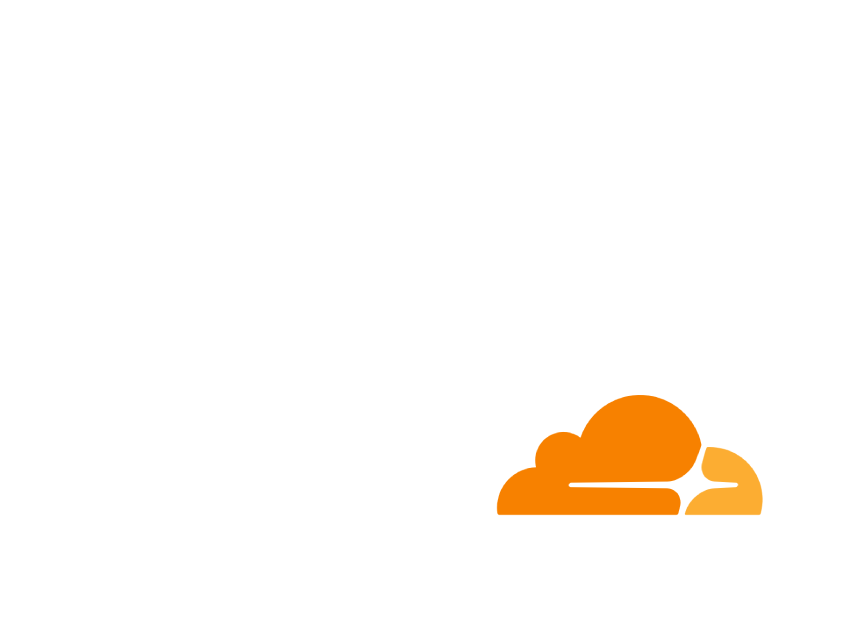
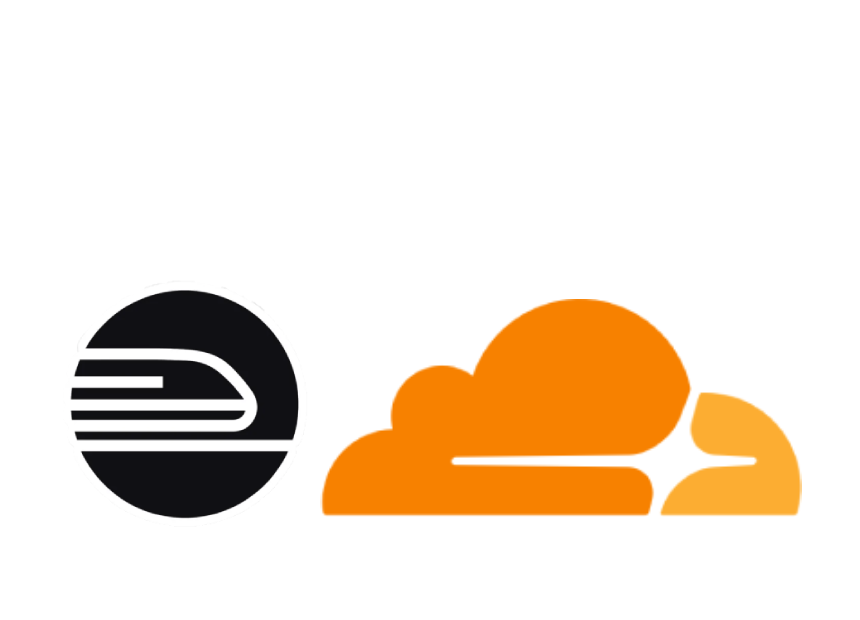
pic resize

Changed region(s): [[0.3628, 0.4597, 0.9372, 0.8581], [0.0605, 0.4597, 0.3628, 0.8581]]

diff --git a/frontend/src/components/RightPanel.jsx b/frontend/src/components/RightPanel.jsx
@@ -3,7 +3,6 @@ import { useFeedStore } from '../stores/feedStore'
 import api from '../lib/api'
 import { Globe } from 'lucide-react'
 import sidebarImage from '../assets/sidebar/image.png'
-import railImage from '../assets/sidebar/rail.png'
 
 const TYPE_ICONS = {
   suburb: '🏘',
@@ -73,17 +72,11 @@ export default function RightPanel() {
       <div className="h-px bg-[#2a2a2a]" />
 
       {/* Sidebar images */}
-      <div className="mt-auto pt-2 flex gap-2.5">
-        <img
-          src={railImage}
-          alt=""
-          className="w-2/5 rounded-xl object-cover opacity-80"
-          style={{ maxHeight: '180px' }}
-        />
+      <div className="mt-auto pt-2">
         <img
           src={sidebarImage}
           alt=""
-          className="w-3/5 rounded-xl object-cover opacity-80"
+          className="w-full rounded-xl object-cover opacity-80"
           style={{ maxHeight: '180px' }}
         />
       </div>
